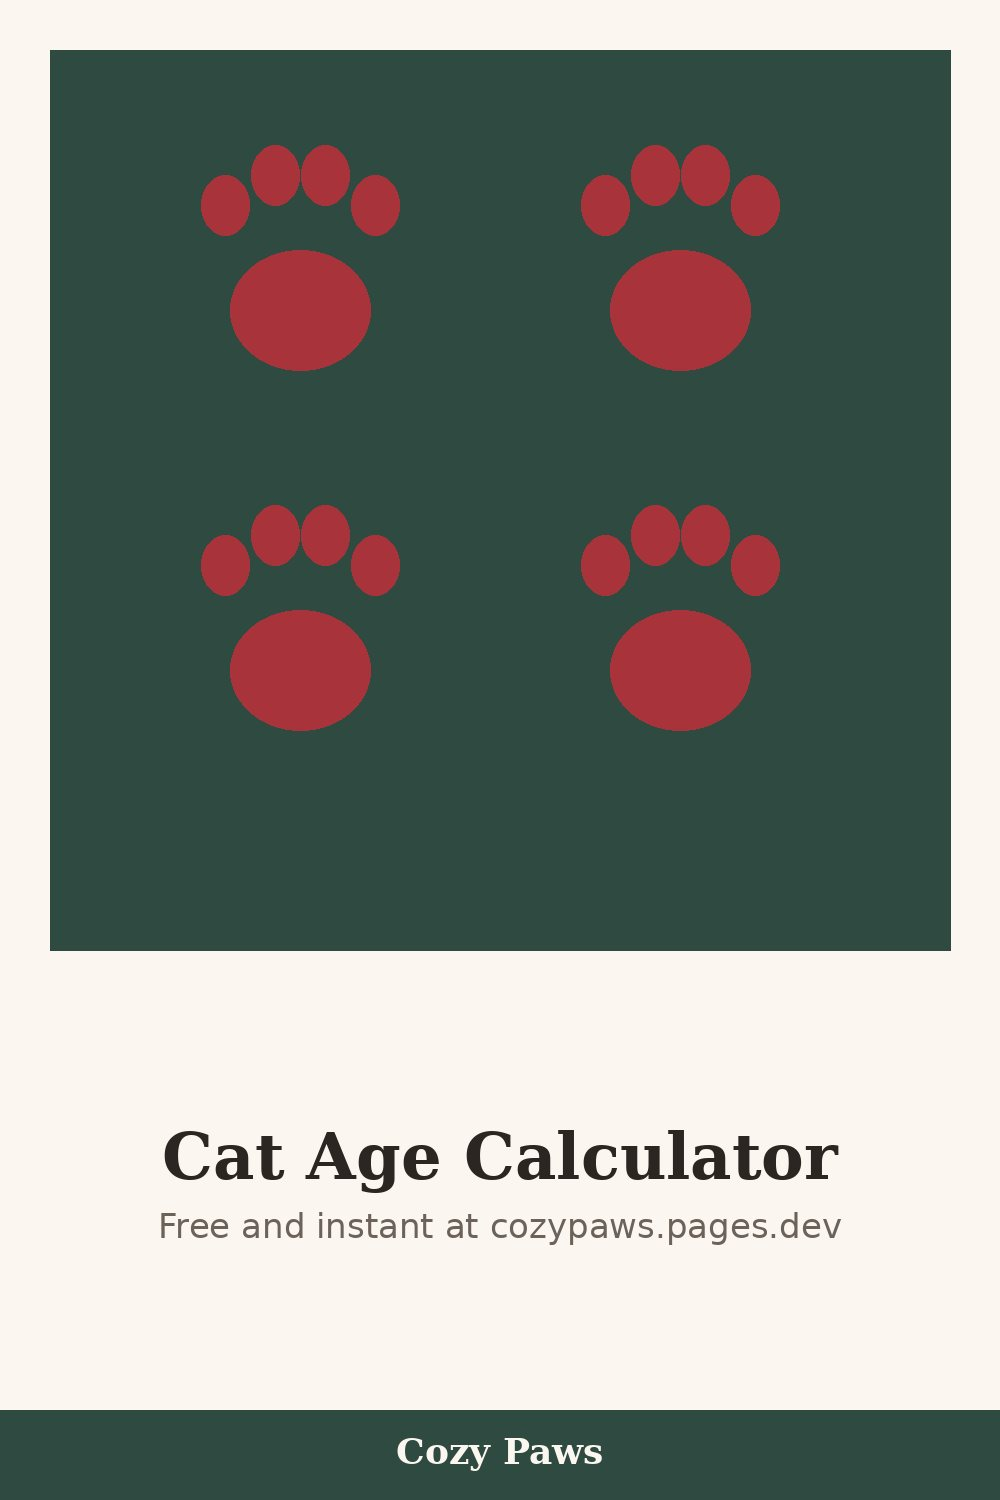
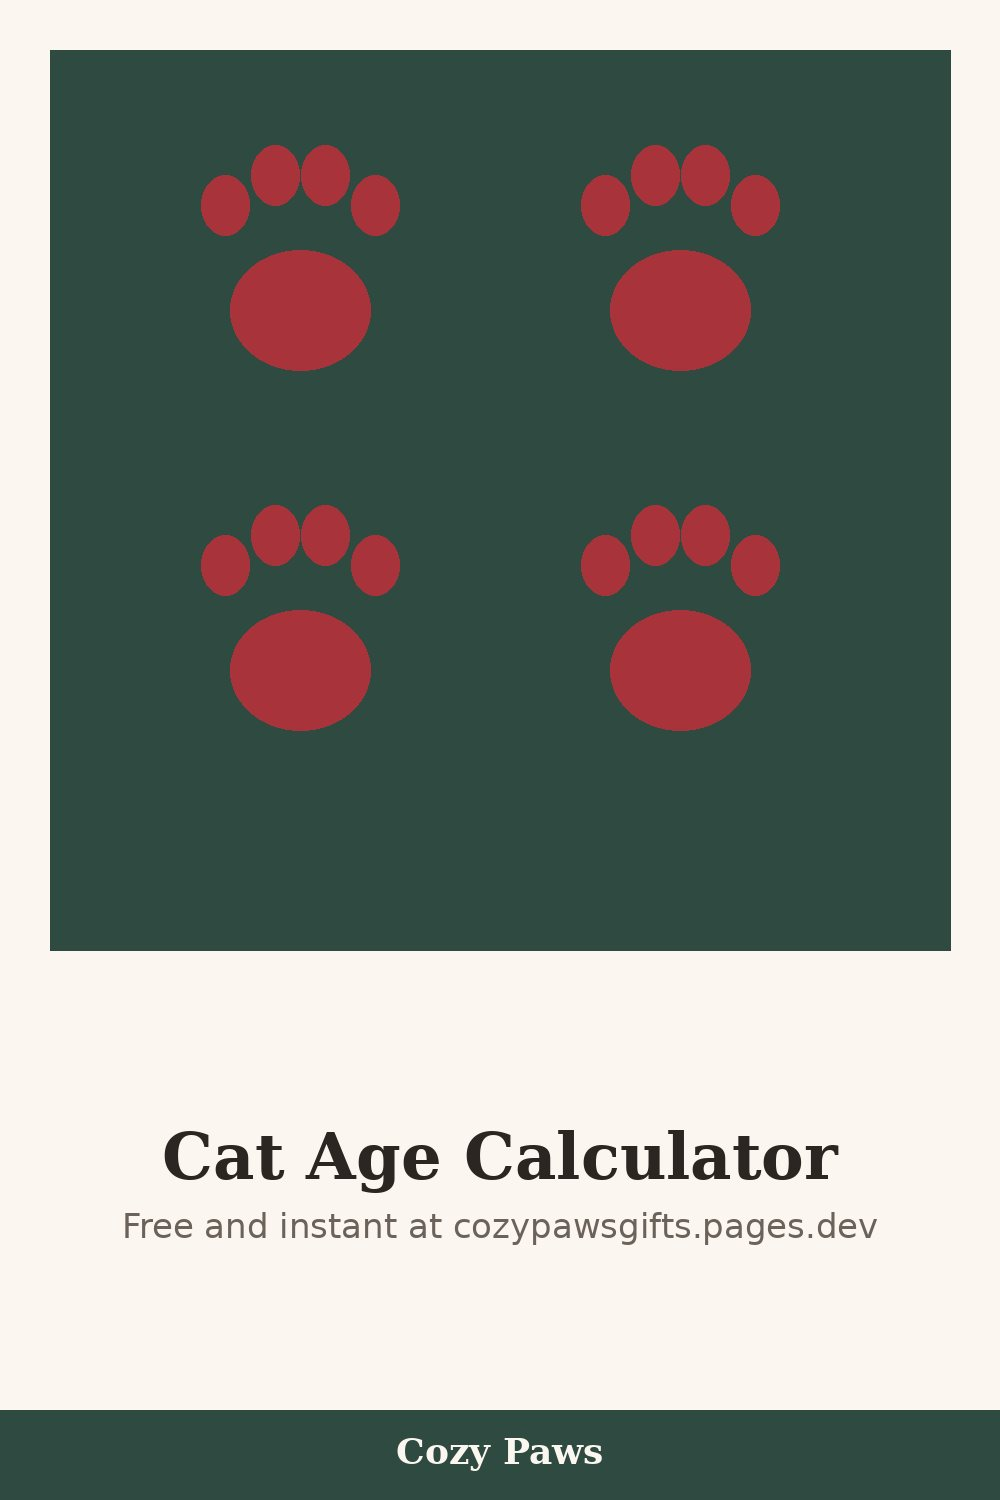
Cozy Paws: la web quedó en cozypawsgifts.pages.dev (canónicas, sitemap, feed y pines)
Claude-Session: https://claude.ai/code/session_016faVtDdE7ymhnK39KFxzg4

Changed region(s): [[0.124, 0.7973, 0.868, 0.828]]

diff --git a/cozypaws/site/tools/dog-age-calculator/index.html b/cozypaws/site/tools/dog-age-calculator/index.html
@@ -1,6 +1,6 @@
 <!DOCTYPE html><html lang="en"><head><meta charset="utf-8"><meta name="viewport" content="width=device-width,initial-scale=1">
-<title>Dog Age Calculator: Dog Years to Human Years | Cozy Paws</title><meta name="description" content="Convert your dog&#x27;s age to human years by size, with the classic vet chart and the newer DNA-based formula."><link rel="canonical" href="https://cozypaws.pages.dev/tools/dog-age-calculator/">
-<meta property="og:title" content="Dog Age Calculator: Dog Years to Human Years | Cozy Paws"><meta property="og:description" content="Convert your dog&#x27;s age to human years by size, with the classic vet chart and the newer DNA-based formula."><meta property="og:image" content="https://cozypaws.pages.dev/img/pin/t-dog-age-calculator.jpg"><meta property="og:url" content="https://cozypaws.pages.dev/tools/dog-age-calculator/"><meta property="og:type" content="website">
+<title>Dog Age Calculator: Dog Years to Human Years | Cozy Paws</title><meta name="description" content="Convert your dog&#x27;s age to human years by size, with the classic vet chart and the newer DNA-based formula."><link rel="canonical" href="https://cozypawsgifts.pages.dev/tools/dog-age-calculator/">
+<meta property="og:title" content="Dog Age Calculator: Dog Years to Human Years | Cozy Paws"><meta property="og:description" content="Convert your dog&#x27;s age to human years by size, with the classic vet chart and the newer DNA-based formula."><meta property="og:image" content="https://cozypawsgifts.pages.dev/img/pin/t-dog-age-calculator.jpg"><meta property="og:url" content="https://cozypawsgifts.pages.dev/tools/dog-age-calculator/"><meta property="og:type" content="website">
 <meta name="twitter:card" content="summary_large_image"><meta name="p:domain_verify" content="c84a6e3acb398fb108d0538381e88517"><meta name="google-site-verification" content="snG6WI_Ay90gukuDRtPKQLCo42mUWLXTbusn-InyaTk">
 <link rel="alternate" type="application/rss+xml" title="Cozy Paws" href="/feed.xml"><link rel="icon" href="/img/icon.png"><style>*{box-sizing:border-box}body{margin:0;font-family:system-ui,-apple-system,'Segoe UI',sans-serif;background:#fbf6ef;color:#2b2622;line-height:1.6}
 a{color:#a8333a}header{background:#2f4a40;color:#fbf6ef}header .in,footer .in{max-width:1100px;margin:0 auto;padding:14px 22px;display:flex;justify-content:space-between;align-items:center;flex-wrap:wrap;gap:8px}
@@ -19,7 +19,7 @@ main{max-width:1100px;margin:0 auto;padding:10px 22px 40px}h1,h2{font-family:Geo
 table{border-collapse:collapse;background:#fff}td,th{border:1px solid #e3d8ca;padding:6px 12px;text-align:center}.note{color:#6b625a;font-size:14px}
 footer{background:#efe6da;margin-top:40px;font-size:14px}footer a{margin-right:14px}
 #cc{position:fixed;bottom:12px;left:12px;right:12px;max-width:560px;background:#2b2622;color:#fff;padding:14px 16px;border-radius:12px;font-size:14px;display:none;z-index:9}
-#cc button{margin:8px 8px 0 0;padding:7px 14px;border-radius:8px;border:0;cursor:pointer}#cc a{color:#f6c9a8}</style><script type="application/ld+json">{"@context": "https://schema.org", "@type": "WebApplication", "name": "Dog Age Calculator", "applicationCategory": "UtilitiesApplication", "operatingSystem": "Any", "offers": {"@type": "Offer", "price": "0", "priceCurrency": "USD"}, "url": "https://cozypaws.pages.dev/tools/dog-age-calculator/"}</script><script>function wwLoad(){var s=document.createElement('script');s.async=1;s.src='https://www.googletagmanager.com/gtag/js?id=G-1RSXP3PFR4';document.head.appendChild(s);window.dataLayer=window.dataLayer||[];window.gtag=function(){dataLayer.push(arguments)};gtag('js',new Date());gtag('config','G-1RSXP3PFR4');}var c=localStorage.getItem('ww_cc');if(c==='y')wwLoad();else if(c!=='n'){document.addEventListener('DOMContentLoaded',function(){var b=document.getElementById('cc');b.style.display='block';
+#cc button{margin:8px 8px 0 0;padding:7px 14px;border-radius:8px;border:0;cursor:pointer}#cc a{color:#f6c9a8}</style><script type="application/ld+json">{"@context": "https://schema.org", "@type": "WebApplication", "name": "Dog Age Calculator", "applicationCategory": "UtilitiesApplication", "operatingSystem": "Any", "offers": {"@type": "Offer", "price": "0", "priceCurrency": "USD"}, "url": "https://cozypawsgifts.pages.dev/tools/dog-age-calculator/"}</script><script>function wwLoad(){var s=document.createElement('script');s.async=1;s.src='https://www.googletagmanager.com/gtag/js?id=G-1RSXP3PFR4';document.head.appendChild(s);window.dataLayer=window.dataLayer||[];window.gtag=function(){dataLayer.push(arguments)};gtag('js',new Date());gtag('config','G-1RSXP3PFR4');}var c=localStorage.getItem('ww_cc');if(c==='y')wwLoad();else if(c!=='n'){document.addEventListener('DOMContentLoaded',function(){var b=document.getElementById('cc');b.style.display='block';
 b.querySelector('.y').onclick=function(){localStorage.setItem('ww_cc','y');b.style.display='none';wwLoad()};b.querySelector('.n').onclick=function(){localStorage.setItem('ww_cc','n');b.style.display='none'}})}
 document.addEventListener('click',function(e){var a=e.target.closest&&e.target.closest('a[data-etsy]');if(a&&window.gtag)gtag('event','etsy_click',{item_id:a.getAttribute('data-etsy')});if(a&&window.fbq)fbq('trackCustom','EtsyClick');});</script></head><body>
 <div class="bar">Order by Dec 10 for Christmas delivery in the US (26 days left)</div>

diff --git a/cozypaws/site/index.html b/cozypaws/site/index.html
@@ -1,6 +1,6 @@
 <!DOCTYPE html><html lang="en"><head><meta charset="utf-8"><meta name="viewport" content="width=device-width,initial-scale=1">
-<title>Cozy Paws: Dog Mom and Cat Lover Gifts, Pet Christmas Gifts</title><meta name="description" content="Original gifts for dog moms, cat lovers and their pets: mugs, ornaments, sweatshirts, blankets and pet accessories. Gift guides and free pet tools."><link rel="canonical" href="https://cozypaws.pages.dev/">
-<meta property="og:title" content="Cozy Paws: Dog Mom and Cat Lover Gifts, Pet Christmas Gifts"><meta property="og:description" content="Original gifts for dog moms, cat lovers and their pets: mugs, ornaments, sweatshirts, blankets and pet accessories. Gift guides and free pet tools."><meta property="og:image" content="https://cozypaws.pages.dev/img/og.jpg"><meta property="og:url" content="https://cozypaws.pages.dev/"><meta property="og:type" content="website">
+<title>Cozy Paws: Dog Mom and Cat Lover Gifts, Pet Christmas Gifts</title><meta name="description" content="Original gifts for dog moms, cat lovers and their pets: mugs, ornaments, sweatshirts, blankets and pet accessories. Gift guides and free pet tools."><link rel="canonical" href="https://cozypawsgifts.pages.dev/">
+<meta property="og:title" content="Cozy Paws: Dog Mom and Cat Lover Gifts, Pet Christmas Gifts"><meta property="og:description" content="Original gifts for dog moms, cat lovers and their pets: mugs, ornaments, sweatshirts, blankets and pet accessories. Gift guides and free pet tools."><meta property="og:image" content="https://cozypawsgifts.pages.dev/img/og.jpg"><meta property="og:url" content="https://cozypawsgifts.pages.dev/"><meta property="og:type" content="website">
 <meta name="twitter:card" content="summary_large_image"><meta name="p:domain_verify" content="c84a6e3acb398fb108d0538381e88517"><meta name="google-site-verification" content="snG6WI_Ay90gukuDRtPKQLCo42mUWLXTbusn-InyaTk">
 <link rel="alternate" type="application/rss+xml" title="Cozy Paws" href="/feed.xml"><link rel="icon" href="/img/icon.png"><style>*{box-sizing:border-box}body{margin:0;font-family:system-ui,-apple-system,'Segoe UI',sans-serif;background:#fbf6ef;color:#2b2622;line-height:1.6}
 a{color:#a8333a}header{background:#2f4a40;color:#fbf6ef}header .in,footer .in{max-width:1100px;margin:0 auto;padding:14px 22px;display:flex;justify-content:space-between;align-items:center;flex-wrap:wrap;gap:8px}
@@ -19,7 +19,7 @@ main{max-width:1100px;margin:0 auto;padding:10px 22px 40px}h1,h2{font-family:Geo
 table{border-collapse:collapse;background:#fff}td,th{border:1px solid #e3d8ca;padding:6px 12px;text-align:center}.note{color:#6b625a;font-size:14px}
 footer{background:#efe6da;margin-top:40px;font-size:14px}footer a{margin-right:14px}
 #cc{position:fixed;bottom:12px;left:12px;right:12px;max-width:560px;background:#2b2622;color:#fff;padding:14px 16px;border-radius:12px;font-size:14px;display:none;z-index:9}
-#cc button{margin:8px 8px 0 0;padding:7px 14px;border-radius:8px;border:0;cursor:pointer}#cc a{color:#f6c9a8}</style><script type="application/ld+json">{"@context": "https://schema.org", "@type": "Organization", "name": "Cozy Paws", "url": "https://cozypaws.pages.dev", "sameAs": ["https://www.etsy.com/shop/ShopCozyPaws", "https://www.pinterest.com/cozypawsgifts/"]}</script><script>function wwLoad(){var s=document.createElement('script');s.async=1;s.src='https://www.googletagmanager.com/gtag/js?id=G-1RSXP3PFR4';document.head.appendChild(s);window.dataLayer=window.dataLayer||[];window.gtag=function(){dataLayer.push(arguments)};gtag('js',new Date());gtag('config','G-1RSXP3PFR4');}var c=localStorage.getItem('ww_cc');if(c==='y')wwLoad();else if(c!=='n'){document.addEventListener('DOMContentLoaded',function(){var b=document.getElementById('cc');b.style.display='block';
+#cc button{margin:8px 8px 0 0;padding:7px 14px;border-radius:8px;border:0;cursor:pointer}#cc a{color:#f6c9a8}</style><script type="application/ld+json">{"@context": "https://schema.org", "@type": "Organization", "name": "Cozy Paws", "url": "https://cozypawsgifts.pages.dev", "sameAs": ["https://www.etsy.com/shop/ShopCozyPaws", "https://www.pinterest.com/cozypawsgifts/"]}</script><script>function wwLoad(){var s=document.createElement('script');s.async=1;s.src='https://www.googletagmanager.com/gtag/js?id=G-1RSXP3PFR4';document.head.appendChild(s);window.dataLayer=window.dataLayer||[];window.gtag=function(){dataLayer.push(arguments)};gtag('js',new Date());gtag('config','G-1RSXP3PFR4');}var c=localStorage.getItem('ww_cc');if(c==='y')wwLoad();else if(c!=='n'){document.addEventListener('DOMContentLoaded',function(){var b=document.getElementById('cc');b.style.display='block';
 b.querySelector('.y').onclick=function(){localStorage.setItem('ww_cc','y');b.style.display='none';wwLoad()};b.querySelector('.n').onclick=function(){localStorage.setItem('ww_cc','n');b.style.display='none'}})}
 document.addEventListener('click',function(e){var a=e.target.closest&&e.target.closest('a[data-etsy]');if(a&&window.gtag)gtag('event','etsy_click',{item_id:a.getAttribute('data-etsy')});if(a&&window.fbq)fbq('trackCustom','EtsyClick');});</script></head><body>
 <div class="bar">Order by Dec 10 for Christmas delivery in the US (26 days left)</div>

diff --git a/cozypaws/site/tools/index.html b/cozypaws/site/tools/index.html
@@ -1,6 +1,6 @@
 <!DOCTYPE html><html lang="en"><head><meta charset="utf-8"><meta name="viewport" content="width=device-width,initial-scale=1">
-<title>Free Pet Tools: Dog Age, Cat Age, Dog Food Calculator | Cozy Paws</title><meta name="description" content="Free calculators and generators for dog and cat owners."><link rel="canonical" href="https://cozypaws.pages.dev/tools/">
-<meta property="og:title" content="Free Pet Tools: Dog Age, Cat Age, Dog Food Calculator | Cozy Paws"><meta property="og:description" content="Free calculators and generators for dog and cat owners."><meta property="og:image" content="https://cozypaws.pages.dev/img/og.jpg"><meta property="og:url" content="https://cozypaws.pages.dev/tools/"><meta property="og:type" content="website">
+<title>Free Pet Tools: Dog Age, Cat Age, Dog Food Calculator | Cozy Paws</title><meta name="description" content="Free calculators and generators for dog and cat owners."><link rel="canonical" href="https://cozypawsgifts.pages.dev/tools/">
+<meta property="og:title" content="Free Pet Tools: Dog Age, Cat Age, Dog Food Calculator | Cozy Paws"><meta property="og:description" content="Free calculators and generators for dog and cat owners."><meta property="og:image" content="https://cozypawsgifts.pages.dev/img/og.jpg"><meta property="og:url" content="https://cozypawsgifts.pages.dev/tools/"><meta property="og:type" content="website">
 <meta name="twitter:card" content="summary_large_image"><meta name="p:domain_verify" content="c84a6e3acb398fb108d0538381e88517"><meta name="google-site-verification" content="snG6WI_Ay90gukuDRtPKQLCo42mUWLXTbusn-InyaTk">
 <link rel="alternate" type="application/rss+xml" title="Cozy Paws" href="/feed.xml"><link rel="icon" href="/img/icon.png"><style>*{box-sizing:border-box}body{margin:0;font-family:system-ui,-apple-system,'Segoe UI',sans-serif;background:#fbf6ef;color:#2b2622;line-height:1.6}
 a{color:#a8333a}header{background:#2f4a40;color:#fbf6ef}header .in,footer .in{max-width:1100px;margin:0 auto;padding:14px 22px;display:flex;justify-content:space-between;align-items:center;flex-wrap:wrap;gap:8px}

diff --git a/cozypaws/site/gifts/index.html b/cozypaws/site/gifts/index.html
@@ -1,6 +1,6 @@
 <!DOCTYPE html><html lang="en"><head><meta charset="utf-8"><meta name="viewport" content="width=device-width,initial-scale=1">
-<title>Gift Guides for Pet Lovers | Cozy Paws</title><meta name="description" content="Gift ideas for dog moms, dog dads, cat lovers and every breed fan."><link rel="canonical" href="https://cozypaws.pages.dev/gifts/">
-<meta property="og:title" content="Gift Guides for Pet Lovers | Cozy Paws"><meta property="og:description" content="Gift ideas for dog moms, dog dads, cat lovers and every breed fan."><meta property="og:image" content="https://cozypaws.pages.dev/img/og.jpg"><meta property="og:url" content="https://cozypaws.pages.dev/gifts/"><meta property="og:type" content="website">
+<title>Gift Guides for Pet Lovers | Cozy Paws</title><meta name="description" content="Gift ideas for dog moms, dog dads, cat lovers and every breed fan."><link rel="canonical" href="https://cozypawsgifts.pages.dev/gifts/">
+<meta property="og:title" content="Gift Guides for Pet Lovers | Cozy Paws"><meta property="og:description" content="Gift ideas for dog moms, dog dads, cat lovers and every breed fan."><meta property="og:image" content="https://cozypawsgifts.pages.dev/img/og.jpg"><meta property="og:url" content="https://cozypawsgifts.pages.dev/gifts/"><meta property="og:type" content="website">
 <meta name="twitter:card" content="summary_large_image"><meta name="p:domain_verify" content="c84a6e3acb398fb108d0538381e88517"><meta name="google-site-verification" content="snG6WI_Ay90gukuDRtPKQLCo42mUWLXTbusn-InyaTk">
 <link rel="alternate" type="application/rss+xml" title="Cozy Paws" href="/feed.xml"><link rel="icon" href="/img/icon.png"><style>*{box-sizing:border-box}body{margin:0;font-family:system-ui,-apple-system,'Segoe UI',sans-serif;background:#fbf6ef;color:#2b2622;line-height:1.6}
 a{color:#a8333a}header{background:#2f4a40;color:#fbf6ef}header .in,footer .in{max-width:1100px;margin:0 auto;padding:14px 22px;display:flex;justify-content:space-between;align-items:center;flex-wrap:wrap;gap:8px}

diff --git a/cozypaws/site/privacy/index.html b/cozypaws/site/privacy/index.html
@@ -1,6 +1,6 @@
 <!DOCTYPE html><html lang="en"><head><meta charset="utf-8"><meta name="viewport" content="width=device-width,initial-scale=1">
-<title>Privacy Policy | Cozy Paws</title><meta name="description" content="How Cozy Paws uses cookies and data."><link rel="canonical" href="https://cozypaws.pages.dev/privacy/">
-<meta property="og:title" content="Privacy Policy | Cozy Paws"><meta property="og:description" content="How Cozy Paws uses cookies and data."><meta property="og:image" content="https://cozypaws.pages.dev/img/og.jpg"><meta property="og:url" content="https://cozypaws.pages.dev/privacy/"><meta property="og:type" content="website">
+<title>Privacy Policy | Cozy Paws</title><meta name="description" content="How Cozy Paws uses cookies and data."><link rel="canonical" href="https://cozypawsgifts.pages.dev/privacy/">
+<meta property="og:title" content="Privacy Policy | Cozy Paws"><meta property="og:description" content="How Cozy Paws uses cookies and data."><meta property="og:image" content="https://cozypawsgifts.pages.dev/img/og.jpg"><meta property="og:url" content="https://cozypawsgifts.pages.dev/privacy/"><meta property="og:type" content="website">
 <meta name="twitter:card" content="summary_large_image"><meta name="p:domain_verify" content="c84a6e3acb398fb108d0538381e88517"><meta name="google-site-verification" content="snG6WI_Ay90gukuDRtPKQLCo42mUWLXTbusn-InyaTk">
 <link rel="alternate" type="application/rss+xml" title="Cozy Paws" href="/feed.xml"><link rel="icon" href="/img/icon.png"><style>*{box-sizing:border-box}body{margin:0;font-family:system-ui,-apple-system,'Segoe UI',sans-serif;background:#fbf6ef;color:#2b2622;line-height:1.6}
 a{color:#a8333a}header{background:#2f4a40;color:#fbf6ef}header .in,footer .in{max-width:1100px;margin:0 auto;padding:14px 22px;display:flex;justify-content:space-between;align-items:center;flex-wrap:wrap;gap:8px}

diff --git a/cozypaws/site/404.html b/cozypaws/site/404.html
@@ -1,6 +1,6 @@
 <!DOCTYPE html><html lang="en"><head><meta charset="utf-8"><meta name="viewport" content="width=device-width,initial-scale=1">
 <title>Page not found | Cozy Paws</title><meta name="description" content="Page not found.">
-<meta property="og:title" content="Page not found | Cozy Paws"><meta property="og:description" content="Page not found."><meta property="og:image" content="https://cozypaws.pages.dev/img/og.jpg"><meta property="og:url" content="https://cozypaws.pages.dev/404.html"><meta property="og:type" content="website">
+<meta property="og:title" content="Page not found | Cozy Paws"><meta property="og:description" content="Page not found."><meta property="og:image" content="https://cozypawsgifts.pages.dev/img/og.jpg"><meta property="og:url" content="https://cozypawsgifts.pages.dev/404.html"><meta property="og:type" content="website">
 <meta name="twitter:card" content="summary_large_image"><meta name="p:domain_verify" content="c84a6e3acb398fb108d0538381e88517"><meta name="google-site-verification" content="snG6WI_Ay90gukuDRtPKQLCo42mUWLXTbusn-InyaTk">
 <link rel="alternate" type="application/rss+xml" title="Cozy Paws" href="/feed.xml"><link rel="icon" href="/img/icon.png"><style>*{box-sizing:border-box}body{margin:0;font-family:system-ui,-apple-system,'Segoe UI',sans-serif;background:#fbf6ef;color:#2b2622;line-height:1.6}
 a{color:#a8333a}header{background:#2f4a40;color:#fbf6ef}header .in,footer .in{max-width:1100px;margin:0 auto;padding:14px 22px;display:flex;justify-content:space-between;align-items:center;flex-wrap:wrap;gap:8px}

diff --git a/cozypaws/build.py b/cozypaws/build.py
@@ -23,7 +23,7 @@ OUT = os.path.join(HERE, 'site')
 
 CONFIG = dict(
     name='Cozy Paws',
-    url='https://cozypaws.pages.dev',          # dirección de Cloudflare Pages (cambiar si se compra dominio)
+    url='https://cozypawsgifts.pages.dev',          # dirección de Cloudflare Pages (cambiar si se compra dominio)
     shop='https://www.etsy.com/shop/ShopCozyPaws',  # tienda de Etsy (shopcozypaws.etsy.com)
     pinterest='https://www.pinterest.com/cozypawsgifts/',          # https://www.pinterest.com/<usuario>/ cuando exista
     ga4='G-1RSXP3PFR4',                # G-XXXXXXX (GA4 de esta web)
@@ -405,7 +405,7 @@ def make_images(all_prods, guides_live, tools_live):
         pin(os.path.join(pins_cache, 'g-' + g['id'] + '.jpg'), g['h1'], 'Original gift ideas, printed in the USA',
             [os.path.join(DATA, 'img', p['imagen']) for p in ps[:4]])
     for t in TOOLS:
-        pin(os.path.join(pins_cache, 't-' + t['id'] + '.jpg'), t['h1'].split(':')[0], 'Free and instant at cozypaws.pages.dev', [])
+        pin(os.path.join(pins_cache, 't-' + t['id'] + '.jpg'), t['h1'].split(':')[0], 'Free and instant at cozypawsgifts.pages.dev', [])
     for f in os.listdir(pins_cache):
         shutil.copy(os.path.join(pins_cache, f), os.path.join(OUT, 'img', 'pin', f))
     # imagen para compartir e ícono

diff --git a/cozypaws/README.md b/cozypaws/README.md
@@ -1,6 +1,6 @@
 # Cozy Paws: web para traer tráfico a la tienda de Etsy
 
-Web estática (inglés, público de EE. UU.) que vive en https://cozypaws.pages.dev y empuja visitas a Etsy desde Google y Pinterest.
+Web estática (inglés, público de EE. UU.) que vive en https://cozypawsgifts.pages.dev y empuja visitas a Etsy desde Google y Pinterest.
 
 - **Guías de regalos** (`/gifts/...`): dog mom, cat mom, razas, Navidad, menos de 25 USD, tazas, invierno, papelería. Cada una aparece cuando tiene 2 productos, como mucho una guía nueva por día.
 - **Productos** (`/p/...`): uno por publicación de Etsy, el día después de su carga (para que el link ya exista). Botón "See it on Etsy".
